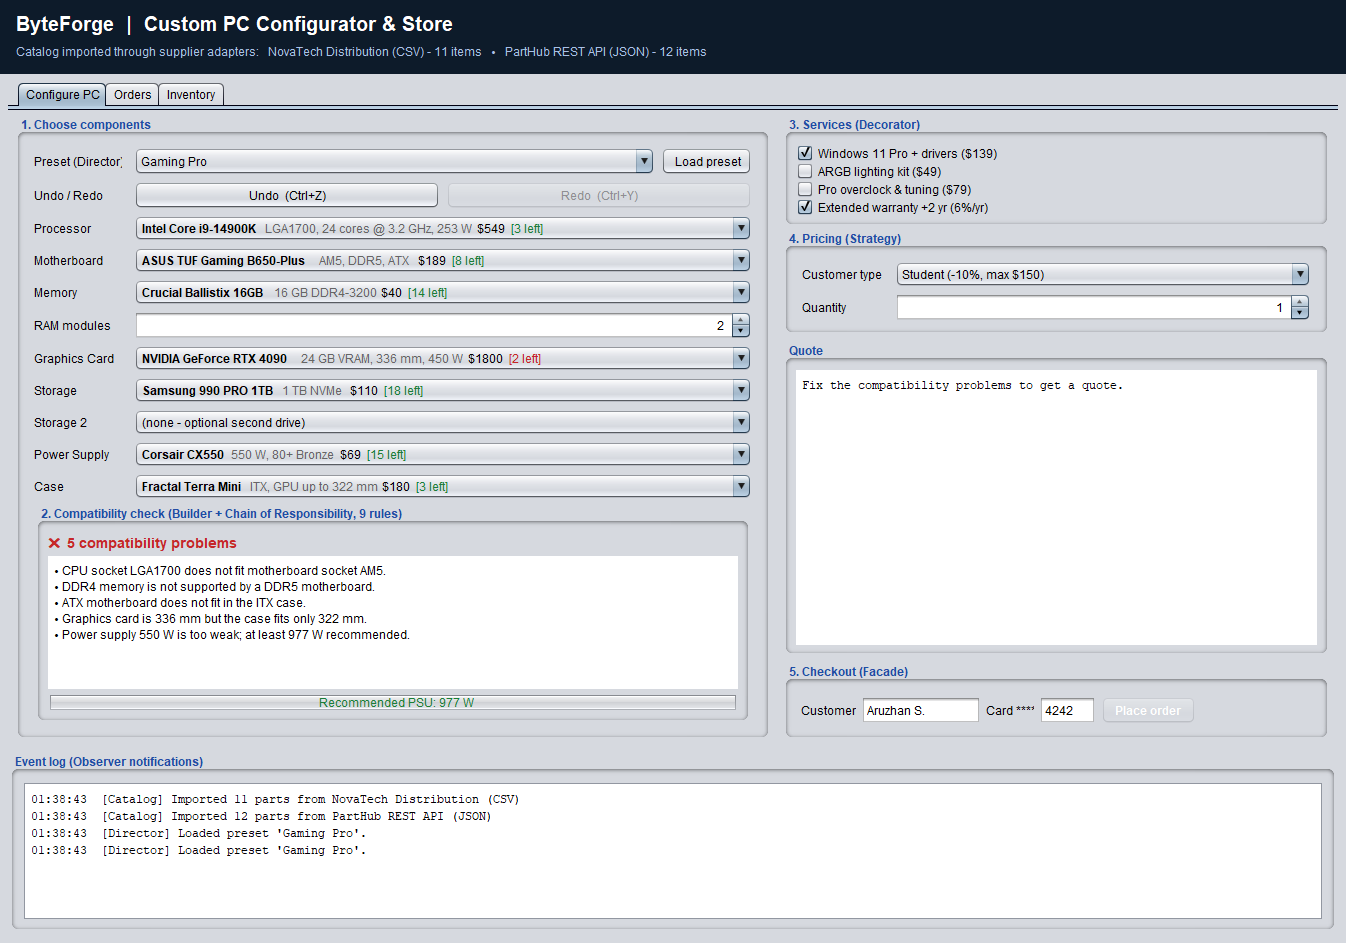
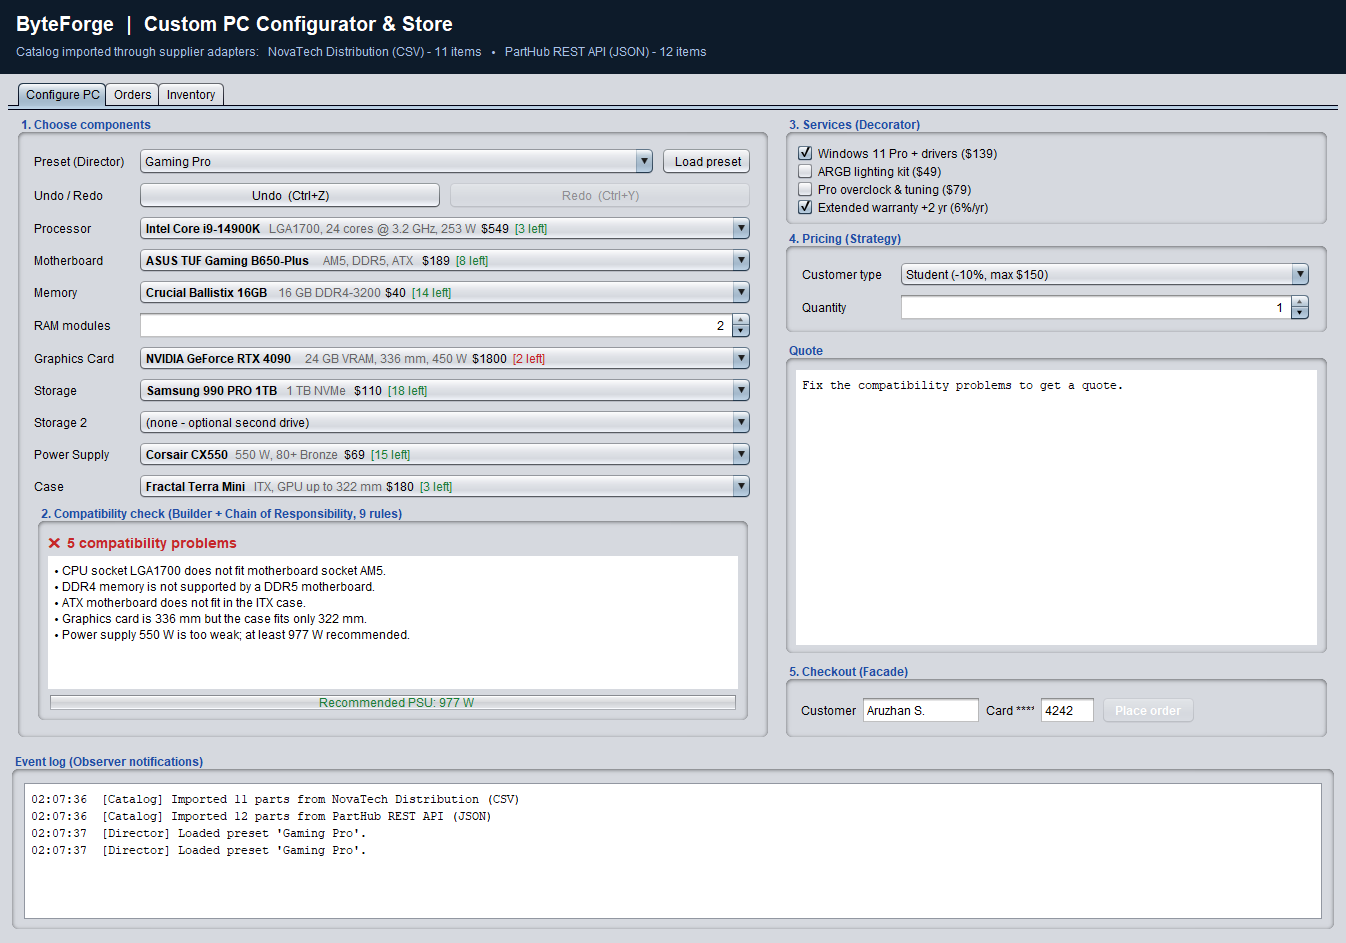
Build without compiler warnings and stop clipping form labels
- Add serialVersionUID to the two exceptions and the Swing classes, so
  javac -Xlint:all now reports no warnings
- Form labels get 4 px of right padding: the widest label in a column
  ("Preset (Director)") lost its last glyph to text-width rounding
- Screenshots regenerated

diff --git a/src/com/byteforge/ui/MainFrame.java b/src/com/byteforge/ui/MainFrame.java
@@ -37,6 +37,8 @@ import java.util.Set;
  * Swing user interface. It talks to the domain exclusively through {@link StoreFacade}.
  */
 public class MainFrame extends JFrame implements ConfigurationEditor {
+    private static final long serialVersionUID = 1L;
+
 
     static final Color ACCENT = new Color(0x2F6FEB);
     static final Color OK = new Color(0x1A7F37);
@@ -834,7 +836,9 @@ public class MainFrame extends JFrame implements ConfigurationEditor {
 
     private static void addRow(JPanel p, GridBagConstraints g, String label, JComponent field) {
         g.gridx = 0; g.weightx = 0; g.gridwidth = 1;
-        p.add(new JLabel(label), g);
+        JLabel l = new JLabel(label);
+        l.setBorder(new EmptyBorder(0, 0, 0, 4)); // room for the last glyph when this is the widest label
+        p.add(l, g);
         g.gridx = 1; g.weightx = 1;
         // small preferred width so the label column never gets squeezed; the field takes the extra space
         field.setPreferredSize(new Dimension(80, field.getPreferredSize().height));
@@ -850,6 +854,8 @@ public class MainFrame extends JFrame implements ConfigurationEditor {
     }
 
     private class PartRenderer extends DefaultListCellRenderer {
+        private static final long serialVersionUID = 1L;
+
         @Override
         public java.awt.Component getListCellRendererComponent(JList<?> list, Object value, int index,
                                                                boolean sel, boolean focus) {
@@ -867,6 +873,8 @@ public class MainFrame extends JFrame implements ConfigurationEditor {
     }
 
     private class OrdersModel extends AbstractTableModel {
+        private static final long serialVersionUID = 1L;
+
         private final String[] cols = {"Order", "Customer", "Product", "Qty", "Pricing", "Total", "Status"};
 
         @Override public int getRowCount() { return store.getOrders().size(); }
@@ -889,6 +897,8 @@ public class MainFrame extends JFrame implements ConfigurationEditor {
     }
 
     private class InventoryModel extends AbstractTableModel {
+        private static final long serialVersionUID = 1L;
+
         private final String[] cols = {"SKU", "Type", "Part", "Specs", "Price", "Stock"};
 
         @Override public int getRowCount() { return store.getAllParts().size(); }
@@ -910,6 +920,8 @@ public class MainFrame extends JFrame implements ConfigurationEditor {
     }
 
     private static class StatusRenderer extends DefaultTableCellRenderer {
+        private static final long serialVersionUID = 1L;
+
         @Override
         public java.awt.Component getTableCellRendererComponent(JTable t, Object v, boolean sel, boolean foc,
                                                                 int row, int col) {
@@ -927,6 +939,8 @@ public class MainFrame extends JFrame implements ConfigurationEditor {
     }
 
     private static class StockRenderer extends DefaultTableCellRenderer {
+        private static final long serialVersionUID = 1L;
+
         @Override
         public java.awt.Component getTableCellRendererComponent(JTable t, Object v, boolean sel, boolean foc,
                                                                 int row, int col) {

diff --git a/src/com/byteforge/builder/IncompatibleBuildException.java b/src/com/byteforge/builder/IncompatibleBuildException.java
@@ -5,6 +5,8 @@ import java.util.List;
 
 /** Thrown by {@link PCBuilder#build()} when the selected parts do not work together. */
 public class IncompatibleBuildException extends RuntimeException {
+    private static final long serialVersionUID = 1L;
+
     private final List<String> issues;
 
     public IncompatibleBuildException(List<String> issues) {

diff --git a/src/com/byteforge/facade/PaymentGateway.java b/src/com/byteforge/facade/PaymentGateway.java
@@ -65,6 +65,8 @@ public class PaymentGateway {
     }
 
     public static class PaymentDeclinedException extends RuntimeException {
+        private static final long serialVersionUID = 1L;
+
         public PaymentDeclinedException(String message) {
             super(message);
         }
